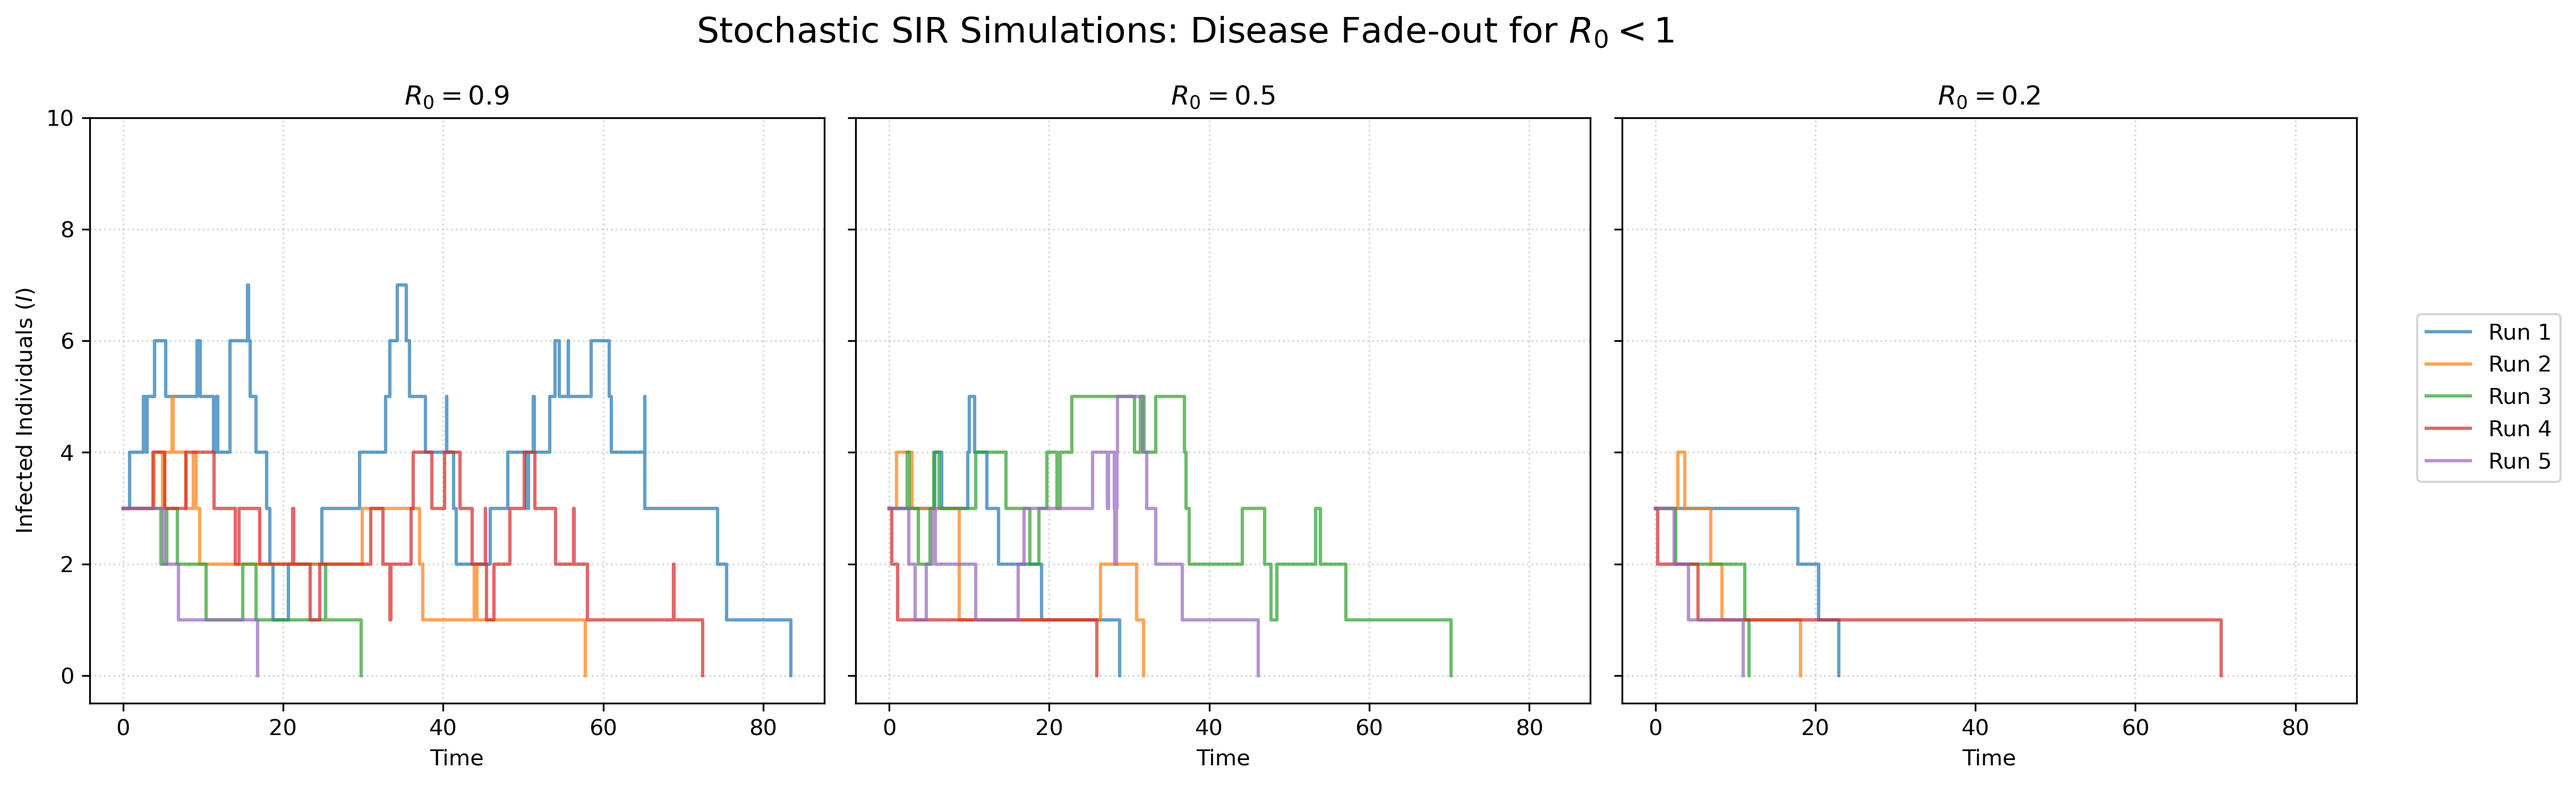
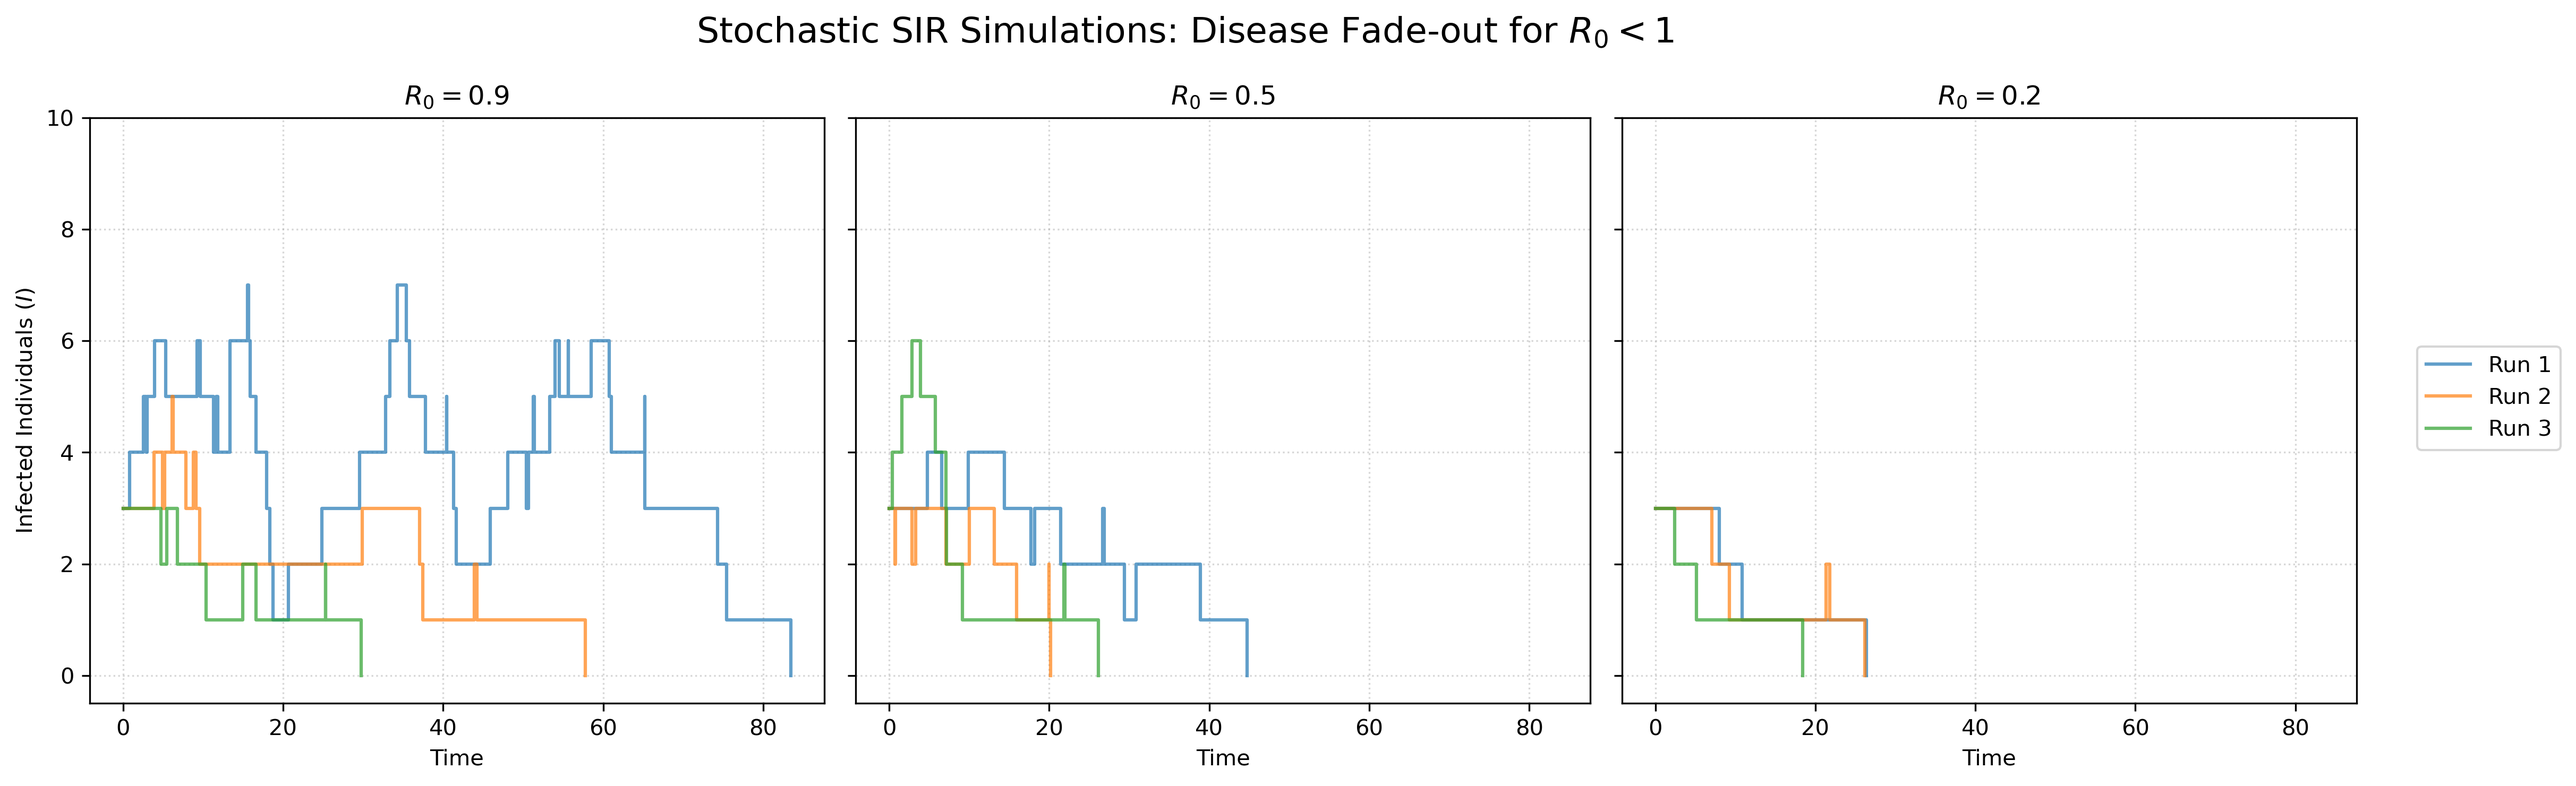
update num runs in pred-prey

diff --git a/math227c/hw5/q1a_pred_prey.py b/math227c/hw5/q1a_pred_prey.py
@@ -1,6 +1,8 @@
 import numpy as np
 import matplotlib.pyplot as plt
 import random
+from matplotlib.lines import Line2D
+
 
 def simulate_predator_prey(Y1_0=50, Y2_0=100, c1=1.0, c2=0.005, c3=0.6, t_max=50.0):
     """
@@ -61,34 +63,62 @@ def simulate_predator_prey(Y1_0=50, Y2_0=100, c1=1.0, c2=0.005, c3=0.6, t_max=50
         
     return times, Y1_vals, Y2_vals
 
-# Run the simulation
-# Setting a seed ensures reproducibility for the assignment write-up
+
+# Run the simulation 5 times
 np.random.seed(42)
 random.seed(42)
-times, Y1_out, Y2_out = simulate_predator_prey(t_max=50.0)
+
+num_runs = 3
+colors = ['#1f77b4', '#ff7f0e', '#2ca02c', '#d62728', '#9467bd']
+runs_data = []
+
+for i in range(num_runs):
+    times, Y1_out, Y2_out = simulate_predator_prey(t_max=50.0)
+    runs_data.append((times, Y1_out, Y2_out))
 
 # ==========================================
-# Plot 1: Time Course
+# Plot 1: Time Course (5 Runs)
 # ==========================================
-plt.figure(figsize=(10, 5))
-plt.step(times, Y1_out, label='Prey ($Y_1$)', color='#1f77b4', where='post', linewidth=1.5)
-plt.step(times, Y2_out, label='Predator ($Y_2$)', color='#d62728', where='post', linewidth=1.5)
+plt.figure(figsize=(12, 6))
+
+for i, (times, Y1_out, Y2_out) in enumerate(runs_data):
+    # Prey (Solid line)
+    plt.step(times, Y1_out, where='post', linestyle='-', color=colors[i], alpha=0.7, linewidth=1.5)
+    # Predator (Dashed line)
+    plt.step(times, Y2_out, where='post', linestyle='--', color=colors[i], alpha=0.7, linewidth=1.5)
+
 plt.xlabel('Time')
 plt.ylabel('Population')
-plt.title('Stochastic Predator-Prey Model: Time Course')
-plt.legend()
+plt.title('Stochastic Predator-Prey Model: Time Course (3 Runs)')
+
+# Create a custom legend for clarity
+custom_lines = [
+    Line2D([0], [0], color='black', lw=2, linestyle='-', label='Prey ($Y_1$)'),
+    Line2D([0], [0], color='black', lw=2, linestyle='--', label='Predator ($Y_2$)')
+]
+for i in range(num_runs):
+    custom_lines.append(Line2D([0], [0], color=colors[i], lw=2, label=f'Run {i+1}'))
+
+plt.legend(handles=custom_lines, loc='upper left', bbox_to_anchor=(1.02, 1), borderaxespad=0.)
 plt.grid(True, linestyle='--', alpha=0.6)
+plt.tight_layout()
 plt.savefig('time_course.png', dpi=300, bbox_inches='tight')
 plt.show()
 
 # ==========================================
-# Plot 2: Phase Plot
+# Plot 2: Phase Plot (5 Runs)
 # ==========================================
-plt.figure(figsize=(8, 6))
-plt.plot(Y1_out, Y2_out, color='purple', alpha=0.7, linewidth=1)
+plt.figure(figsize=(9, 7))
+
+for i, (times, Y1_out, Y2_out) in enumerate(runs_data):
+    # No step plot needed for phase plane, standard plot handles orbit trajectories well
+    plt.plot(Y1_out, Y2_out, color=colors[i], alpha=0.6, linewidth=1.5, label=f'Run {i+1}')
+
 plt.xlabel('Prey Population ($Y_1$)')
 plt.ylabel('Predator Population ($Y_2$)')
-plt.title('Stochastic Predator-Prey Model: Phase Plot')
+plt.title('Stochastic Predator-Prey Model: Phase Plot (3 Runs)')
+plt.legend(loc='upper right')
 plt.grid(True, linestyle='--', alpha=0.6)
+plt.tight_layout()
 plt.savefig('phase_plot.png', dpi=300, bbox_inches='tight')
 plt.show()
